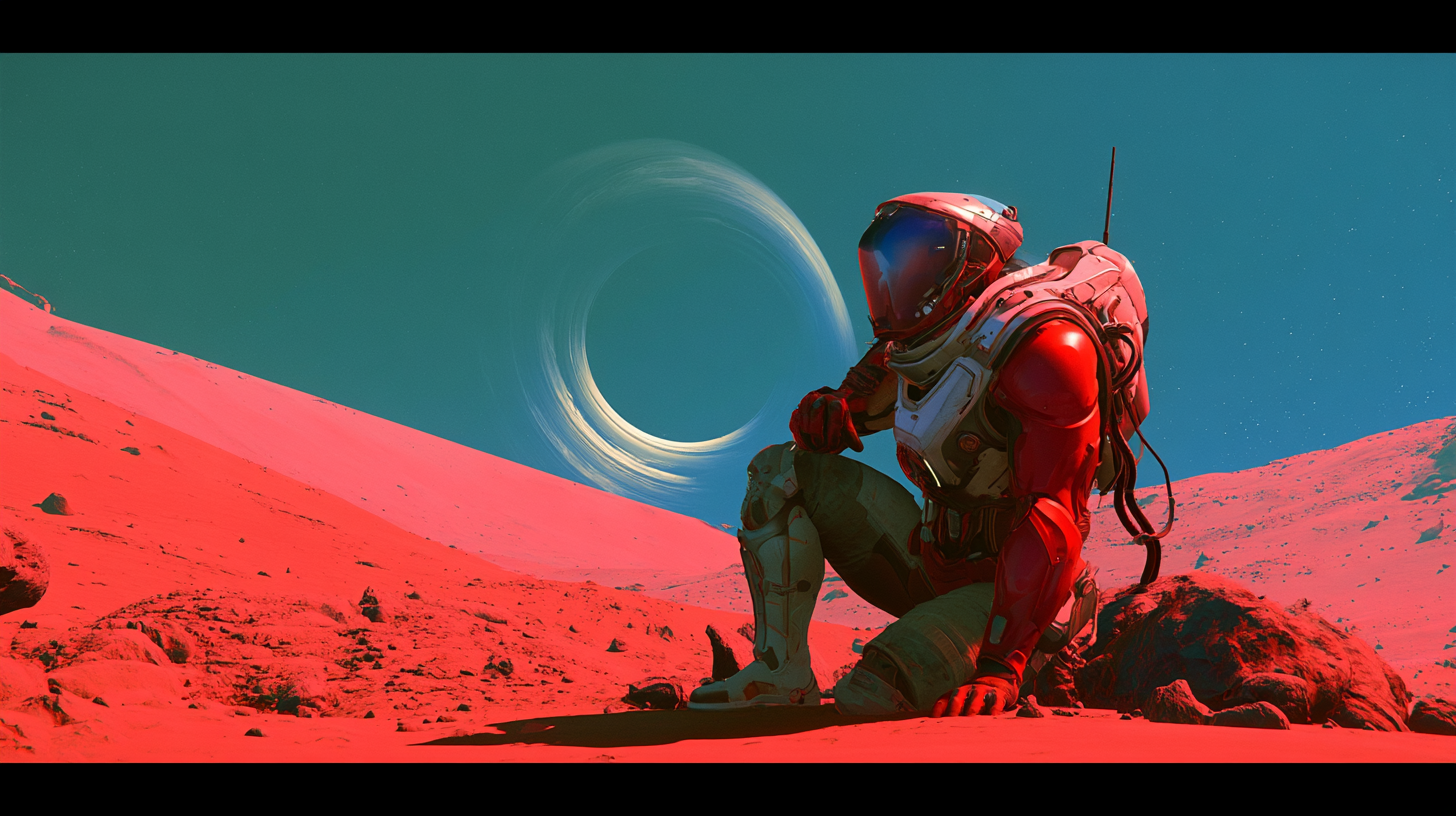
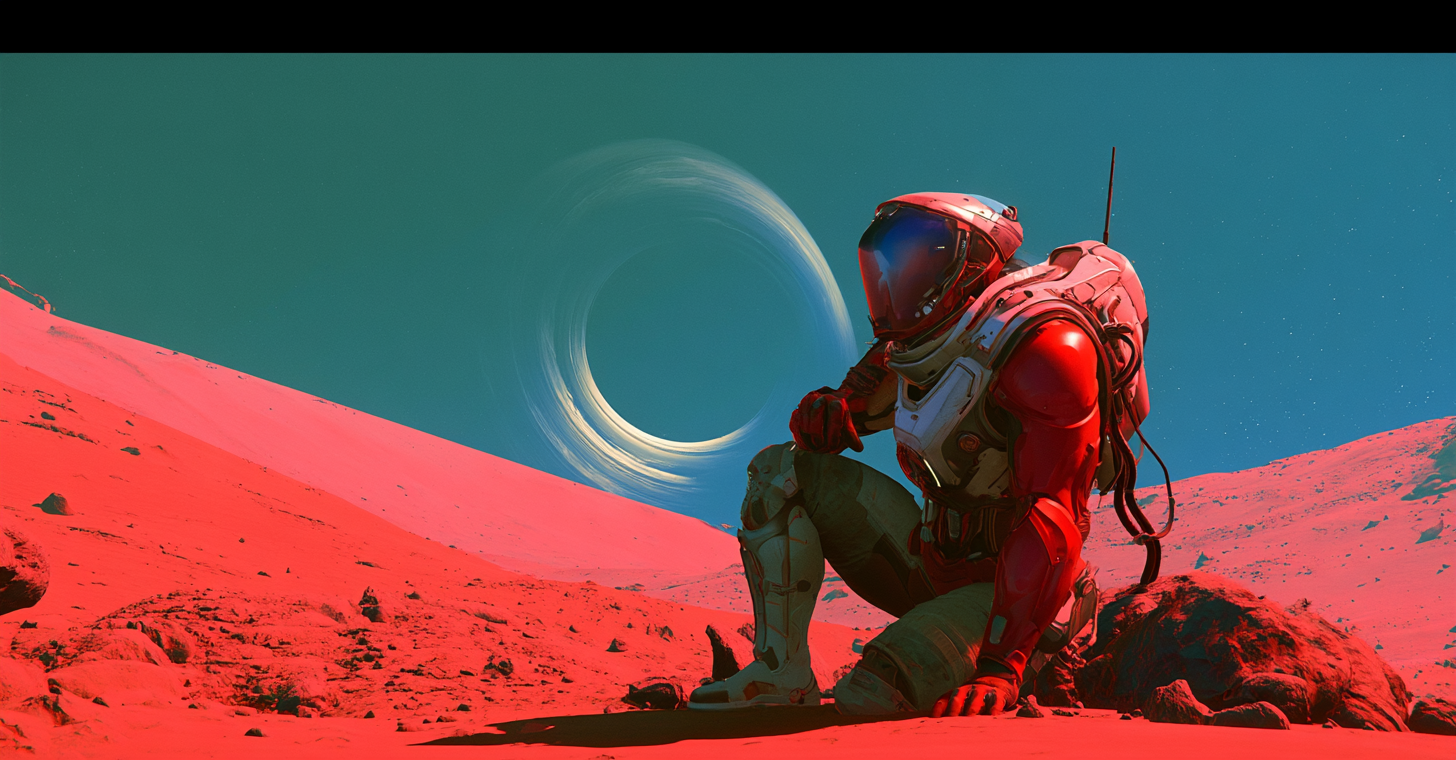
Add files via upload

diff --git a/uploads/Dirtyline 36daysoftype 2022.html b/uploads/Dirtyline 36daysoftype 2022.html
@@ -1,0 +1,15 @@
+<!DOCTYPE html PUBLIC "-//W3C//DTD XHTML 1.0 Strict//EN" "http://www.w3.org/TR/xhtml1/DTD/xhtml1-strict.dtd">
+<html lang="en" xml:lang="en" xmlns="http://www.w3.org/1999/xhtml">
+<head>
+<meta content="text/html; charset=utf-8" http-equiv="content-type"/>
+<meta content="en-us" http-equiv="Content-Language"/>
+<title>Dirtyline 36Daysoftype 2022 Reg - Web Font Specimen</title>
+<link rel="stylesheet" type="text/css" media="screen" href="Dirtyline 36daysoftype 2022.css" />
+<style type="text/css" media="screen">
+body { font-size: 42px; font-family: "Dirtyline36Daysoftype2022", Georgia; }
+</style>
+</head>
+<body>
+<p contenteditable="true">The quick brown fox jumps over the lazy dog. $123.45!</p>
+</body>
+</html>

diff --git a/uploads/Dirtyline 36daysoftype 2022.css b/uploads/Dirtyline 36daysoftype 2022.css
@@ -1,0 +1,12 @@
+/* Webfont: Dirtyline36Daysoftype2022-Reg */@font-face {
+    font-family: 'Dirtyline36Daysoftype2022';
+    src: url('Dirtyline 36daysoftype 2022.eot'); /* IE9 Compat Modes */
+    src: url('Dirtyline 36daysoftype 2022.eot?#iefix') format('embedded-opentype'), /* IE6-IE8 */
+         url('Dirtyline 36daysoftype 2022.woff') format('woff'), /* Modern Browsers */
+         url('Dirtyline 36daysoftype 2022.woff2') format('woff2'), /* Modern Browsers */
+         url('Dirtyline 36daysoftype 2022.ttf') format('truetype'); /* Safari, Android, iOS */
+             font-style: normal;
+    font-weight: normal;
+    text-rendering: optimizeLegibility;
+}
+